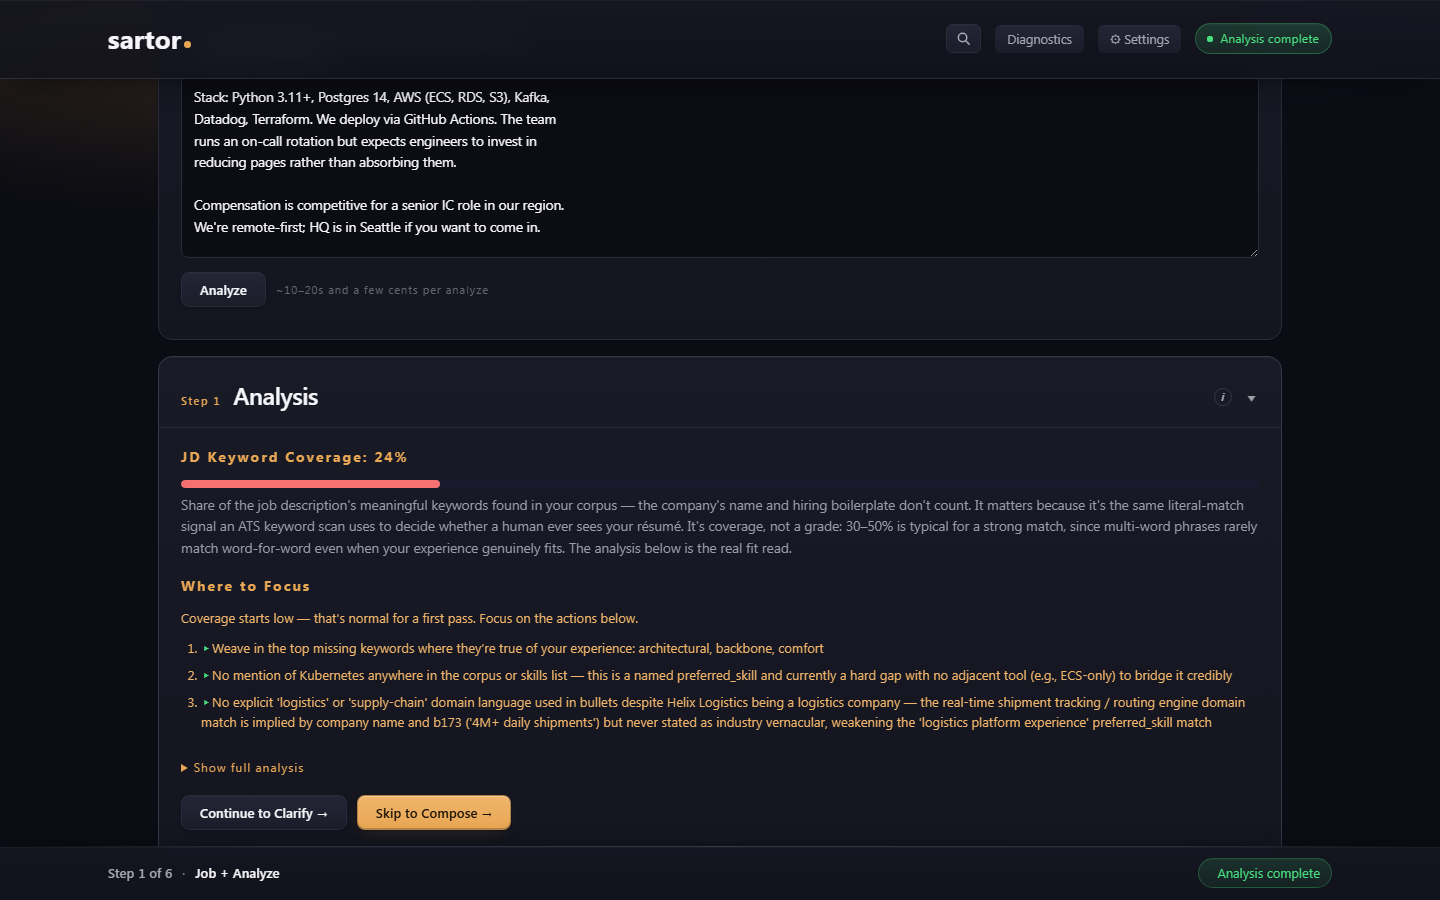
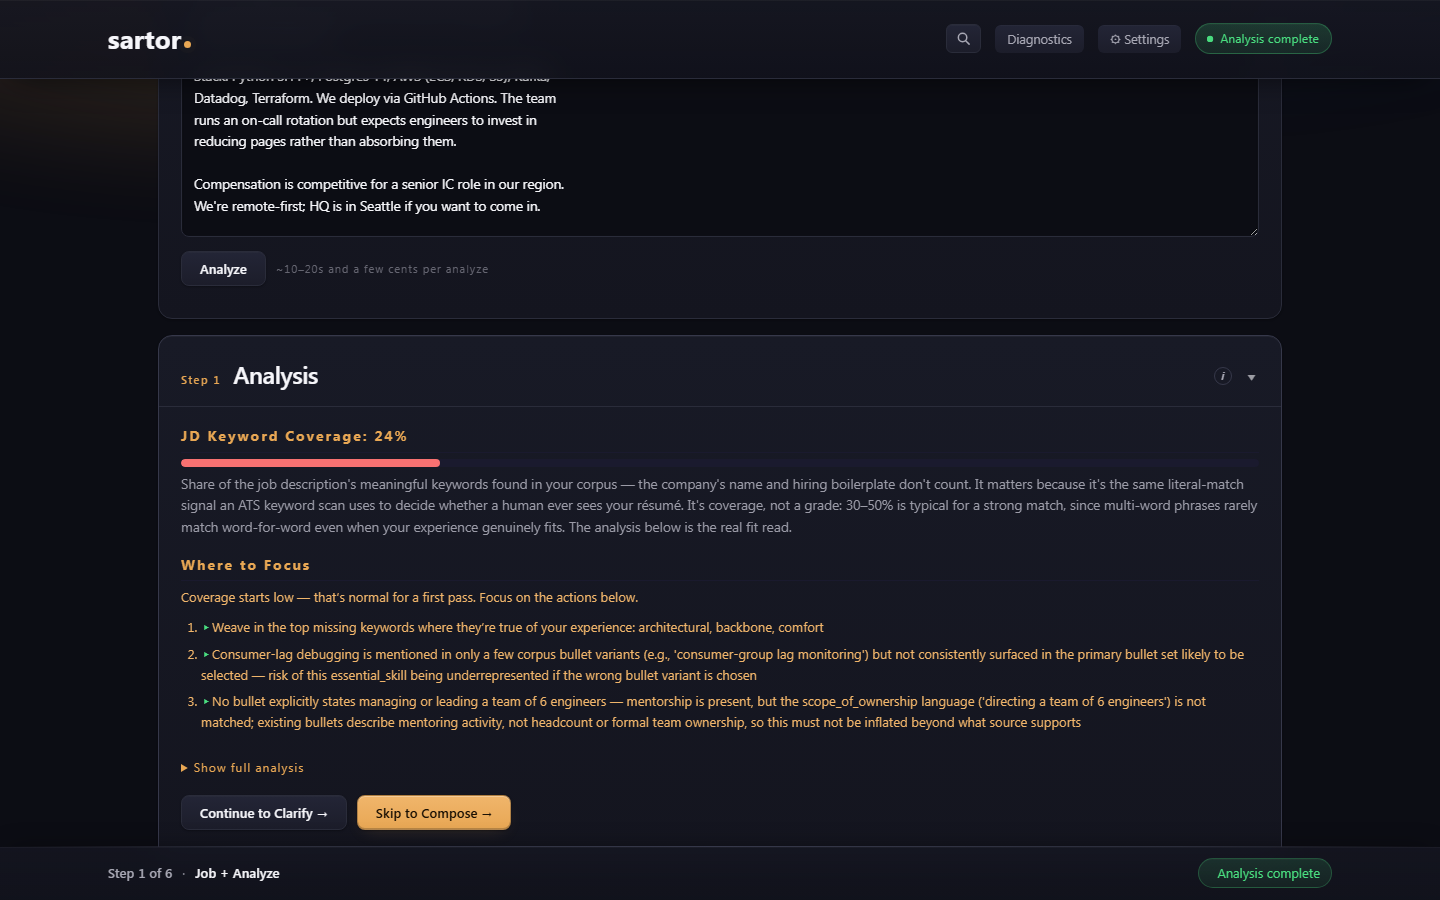
docs(screenshots): recapture the README hero without ids; record what is still open (item 140)
The hero shot's Where to Focus list is now plain language, from a real run whose
demo corpus ships the same b173-b180 ids as the original symptom; an offline scan of
that run's analysis and clarify text found 0 leaking leaves. The cover-letter
screenshot could not be recaptured: the capture script stopped at the Template to
Generate step with no generate call logged, cause not established, so that image
still shows b180 and March 2025. The seven other images the run overwrote were
restored. Fills in the dossier's fix and acceptance sections, withdraws the
stale-rows guess as falsified, and states what is not met.

Changed region(s): [[0.125, 0.4044, 0.875, 0.8089], [0.125, 0.0933, 0.375, 0.3422]]

diff --git a/docs/dev/diagnosis/llm-handle-leak-and-letter-date.md b/docs/dev/diagnosis/llm-handle-leak-and-letter-date.md
@@ -163,55 +163,92 @@ internal ids, and the cover letter carried a date the run could not have produce
 
 ---
 
+- **Screenshot recapture, 2026-10-17** (`python -m scripts.capture_screenshots --headless --keep-user` against
+  `python app.py`, prompts at `2026-10-17.2`):
+  - `readme_hero_wizard-step1-filled.png` **recaptured and read**: its "Where to Focus" list is plain language
+    ("Consumer-lag debugging is mentioned in only a few corpus bullet variants…"), with no id. That demo corpus ships
+    `b173`…`b180`, the very ids in the original symptom (59 handles). The kept run context
+    (`output/demo/context_20261017_063211.json`, since removed) scanned offline with `find_leaked_handles`:
+    0 leaking leaves across `llm_analysis` and `clarification_questions`. n=1 real run, which itself needed one
+    `analyze_extraction_retry`.
+  - **`walkthrough_coverletter_first-generation.png` NOT recaptured.** The script stopped at step 9
+    (`WizardTemplatePage.continue_to_generate` → `wait_for_selector(Wizard.PANEL_GENERATE)` timed out;
+    `scripts/capture_screenshots.py:529`, `ui_pages/wizard_template.py:46`). `logs/llm_calls.jsonl` for the window shows
+    analyze, clarify, recommend and draft_summary all `ok` and **no `generate` call**, and the kept context holds an
+    `approved_composition`: the failure is in the UI step between Template and Generate, not in an LLM call. **Cause not
+    established.** The committed image still shows `b180` and `March 2025`.
+  - The seven other PNGs that run overwrote were restored with `git checkout` (they were captured against an existing
+    `demo` corpus: the script printed "corpus already has 3 experiences; skipping import", so
+    `walkthrough_setup_corpus-empty.png` showed a full corpus).
+  - The `demo` candidate (id 5, created `2026-05-26`, 16 applications before this run, now 17) predates this session; its
+    experiences carry month dates (`2023-01`, `2019-01`, `2017-01`), so the month-gate explanation I first guessed for
+    the failure does not fit (see Falsified). The server's own logger went silent after the Alembic migration at
+    start-up, so the server log gave no evidence either way.
+  - Cost of the capture, telemetry window `13:31`–`13:33Z`: 6 calls (`analyze_extraction` ×2 incl. retry,
+    `analyze_synthesis`, `clarify`, `recommend`, `draft_summary`); cumulative with the evals about `$3.3`.
+
+---
+
 ## Falsified
 
-_(Nothing yet.)_
+- **"The capture failure is the item 139 stale-demo-rows / month gate problem."** Written down as a guess before
+  checking; the demo experiences have `YYYY-MM` start dates, so the month gate does not apply. Not the cause. The real
+  cause is open.
+- **"The first baseline's 12–29 findings per fixture may be detector false positives."** Checked against the snippets in
+  run 2: they are genuine handle mentions.
+- **Hypothesis B, as a test:** not falsified and not confirmed. The baselines produced no letter carrying a handle (0 of
+  15), so `letter_carriers` never had a case to map.
 
 ---
 
 ## Inferred
 
-**Hypothesis A (unproven):** the analyze synthesis step, asked to cite items "by name", has only ids as names for
-corpus bullets, so it writes them into `comparison.gaps` / `suggestions` (the "Where to focus" source).
+**Hypothesis B (still unproven):** the original `b180` reached the letter through the analysis prose it is given
+(`<analysis>` `overall_strategy`), which was itself written under hypothesis A. It never reproduced, so this is the one
+claim here that rests on elimination alone. The guard covers the letter regardless (a leak in `cover_letter_content` is
+a hard error).
 
-**Hypothesis B (unproven, by elimination):** the cover letter did not see the corpus block, so `b180` reached it
-through `<analysis>` — most likely `overall_strategy` — which was itself written under Hypothesis A. Rival carriers
-not excluded: `last_generated_resume` content, a prior letter draft, clarification answers.
+**Mechanism of the extraction-retry cost (read, then supported by 3 snippets and a drop from 3 retry calls to 1):** the
+extraction schema asked for a "bullet area" while naming bullets only by id. The reworded schema cut guard retries; the
+sample is two analyses.
 
-**Hypothesis C (unproven):** the invented date is the model satisfying a FORMAT rule that asks for a date and gives
-none.
-
-**The gap:** nothing in A or B has been seen in a captured response. I would have to SEE the upstream field that
-holds `b180` to know B.
+**Why `data-scientist-junior` scores fell (unknown):** see Observed. Not claimed.
 
 ---
 
 ## Falsification
 
-**Instrument first (C1):** a deterministic scan, `hardening.find_leaked_handles`, wired into the eval runner as a
-sibling record key `leaked_handles`. It scans every string leaf of the analysis, the clarify output, the generated
-résumé and letter, and (assemble mode) the recommend outputs — all handle kinds, not just `b`-ids and not just the
-letter. It records `letter_carriers`: for each handle in the letter, which upstream fields also contain it.
-
-**Baseline (C2):** run the generate and assemble modes against the corpus seed on HEAD of the instrument commit.
-
-- **If a letter handle appears and an upstream field also holds it:** B is supported for that handle.
-- **If a letter handle appears and NO upstream field holds it:** B is **false**. The carrier is something else
-  (prior draft, résumé content, clarification). Stop; widen the instrument; do not apply the prompt fix as a
-  cure for that path.
-- **If no handle appears anywhere in the baseline:** the leak did not reproduce at n=1. That does not show the
-  prompt rule works; the validator is then the guarantee and the run only shows no regression. Say so plainly.
-- **Date:** if the baseline letter carries a date that differs from the run date, C is supported. If it carries
-  none or the right one, C did not reproduce.
+**What was run, in order:** the instrument (`6f00573`, then `a970033` adding snippets); baseline runs 1 and 2 on
+unchanged prompts; the candidate run; the verification run after the failure-mode change; the targeted run after the
+schema rewording. Each outcome is under Observed. Confirmed by observation: hypothesis A (every baseline fixture-run)
+and hypothesis C (6 of 6 dated baseline letters wrong; 10 of 10 correct once `<letter_date>` was supplied, plus the
+two in the last targeted run). Not testable at this n: hypothesis B.
 
 ---
 
 ## The fix
 
-_Not yet. Only after the baseline has run._
+- **Prompt rule** (`_NO_HANDLES_IN_PROSE_RULE`, `analyzer.py`): never write an id in prose, with an OK/NOT OK pair, on the
+  14 personas shown ids or analysis prose. The critique prompt's `source bullet b41` example, which taught the leak, was
+  reworded.
+- **Schemas** (`PROMPT_VERSION 2026-10-17.2`): the analyze extraction and synthesis schemas no longer ask for a "bullet
+  area" without a way to name it; they say company and role or a quote, never an id.
+- **Runtime guard** (`_LLMResponse.reject_handle_leaks`, `_parse_or_retry*`): a prose handle the prompt shipped makes the
+  call retry once. If it persists, it raises `LLMResponseError` only when the leak is in `resume_content` /
+  `cover_letter_content`; elsewhere the response is accepted with a logged warning (owner decision after the candidate
+  run's 1-in-6 hard error). Wired into every call that ships ids; four that ship none are exempt with a reason; a test
+  fails any new `_parse_or_retry*` call that is neither (C-11).
+- **Letter date**: both cover-letter prompts carry `<letter_date>` from one clock seam, in the user prompt only.
+- **Instrument** (kept): `leaked_handles` per record in `evals/runner.py`, with snippets.
 
 ---
 
 ## Acceptance bar
 
-_To be filled with the baseline and candidate result files._
+Met, with the sample sizes stated: no b/e/t handle in 4 of 4 completed candidate fixture-runs, 5 of 6 verification
+runs (the sixth is one soft acceptance), and 2 of 2 targeted runs; letters carry the run date in every dated letter after
+the change (12 of 12 across the three post-change runs, against 0 of 6 before). The result files are cited under
+Observed.
+
+**Not met, stated plainly:** (1) `walkthrough_coverletter_first-generation.png` is not recaptured (cause of the
+capture failure open); (2) the `data-scientist-junior` score drop is unexplained; (3) hypothesis B is untested.
